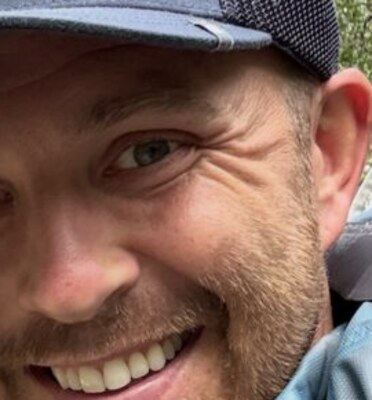
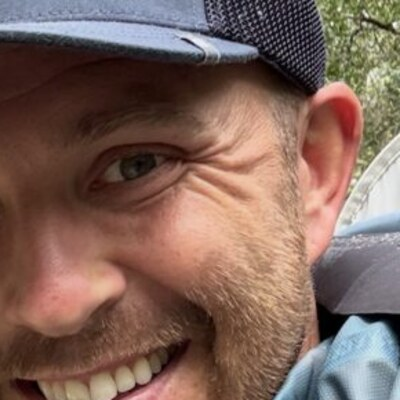
Adjust volunteer photo positioning to accurately center profile image
Update the photo positioning for a volunteer's profile image to ensure it is correctly centered within the designated display area.

Replit-Commit-Author: Agent
Replit-Commit-Session-Id: 0b515dc1-4a4f-4050-b995-a3d38e06d38d
Replit-Commit-Checkpoint-Type: full_checkpoint
Replit-Commit-Event-Id: 36e83bd0-d896-43af-8122-2f9cee32839d
Replit-Commit-Screenshot-Url: https://storage.googleapis.com/screenshot-production-us-central1/2bf834e8-f495-4af2-b399-43404d0a986e/0b515dc1-4a4f-4050-b995-a3d38e06d38d/QYMT1Tm
Replit-Helium-Checkpoint-Created: true

diff --git a/client/src/pages/Volunteer.tsx b/client/src/pages/Volunteer.tsx
@@ -87,7 +87,7 @@ const ROLE_GROUPS: RoleGroup[] = [
         time: "5-8 hrs/wk pre-season, 2-3 hrs/wk in-season",
         timeShort: "5-8 hrs/wk pre-season",
         status: "filled",
-        filledBy: { name: "Johnny Page", since: "2024", initials: "JP", email: "[email redacted]", photo: "/johnny-page.jpg", photoPosition: "center center" },
+        filledBy: { name: "Johnny Page", since: "2024", initials: "JP", email: "[email redacted]", photo: "/johnny-page.jpg", photoPosition: "39% 31%" },
         summary: "Recruits, trains, and supports every coach in the program.",
         responsibilities: [
           "Lead coach recruiting before registration opens",